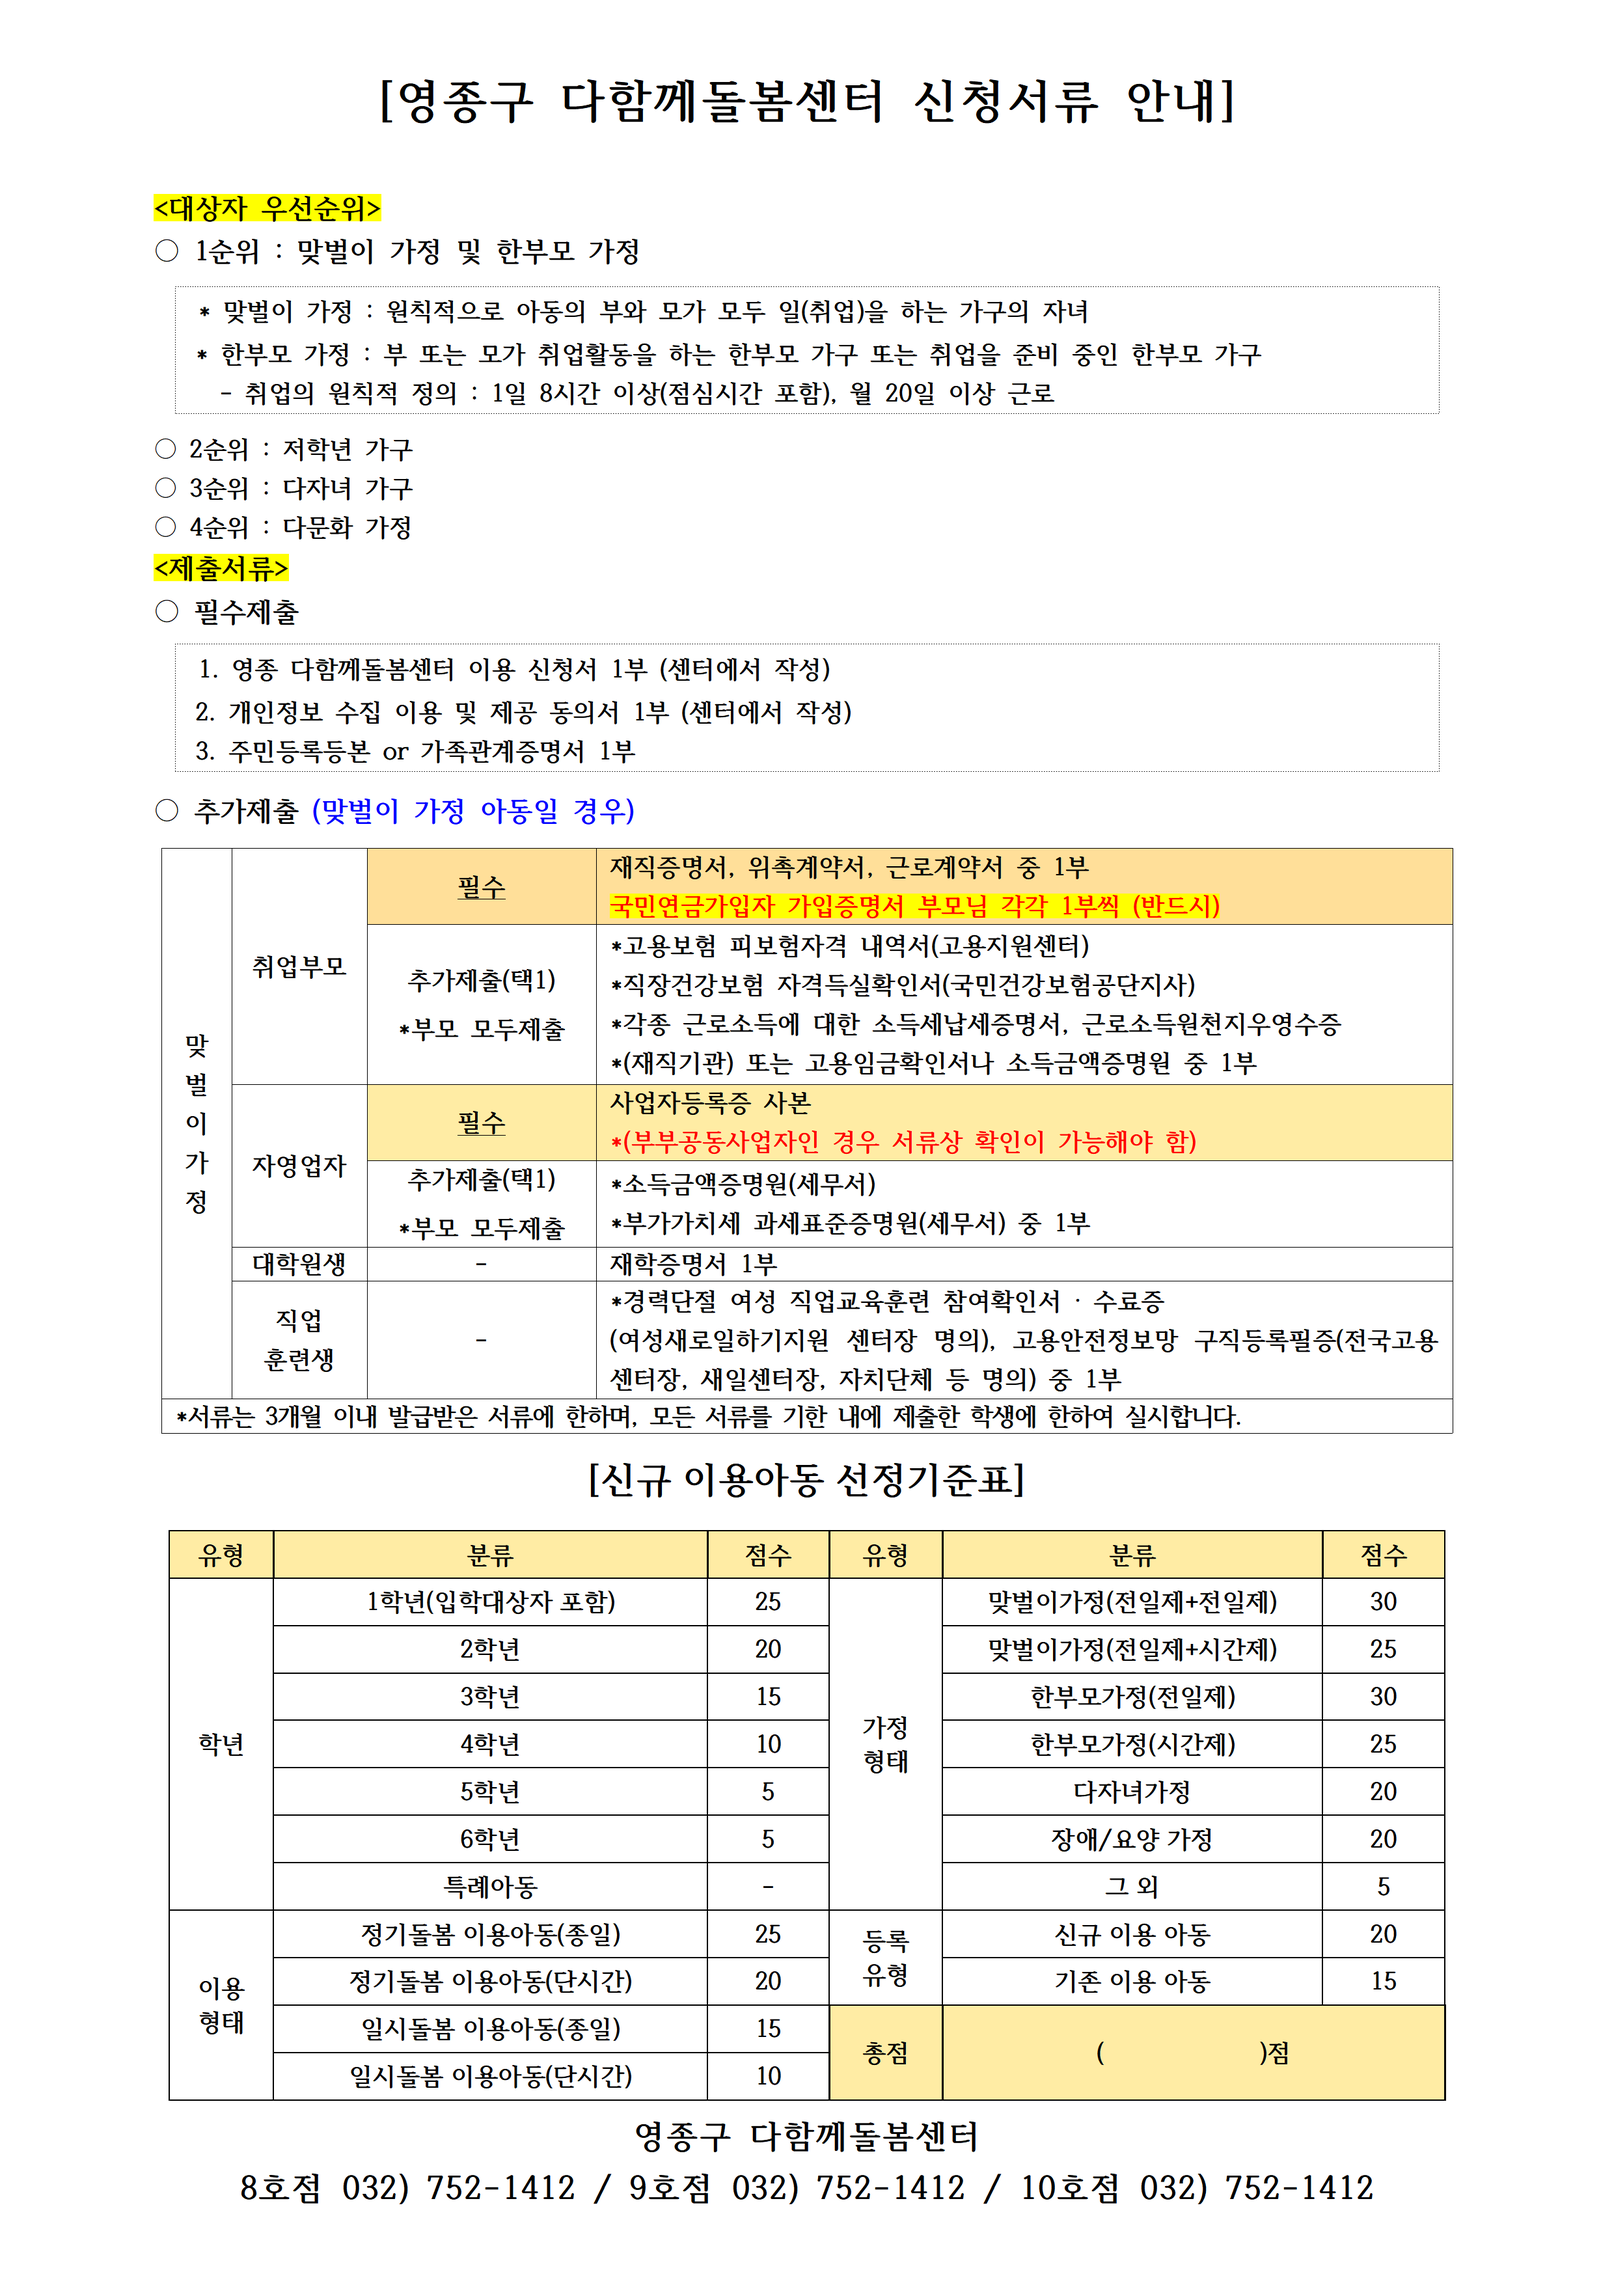
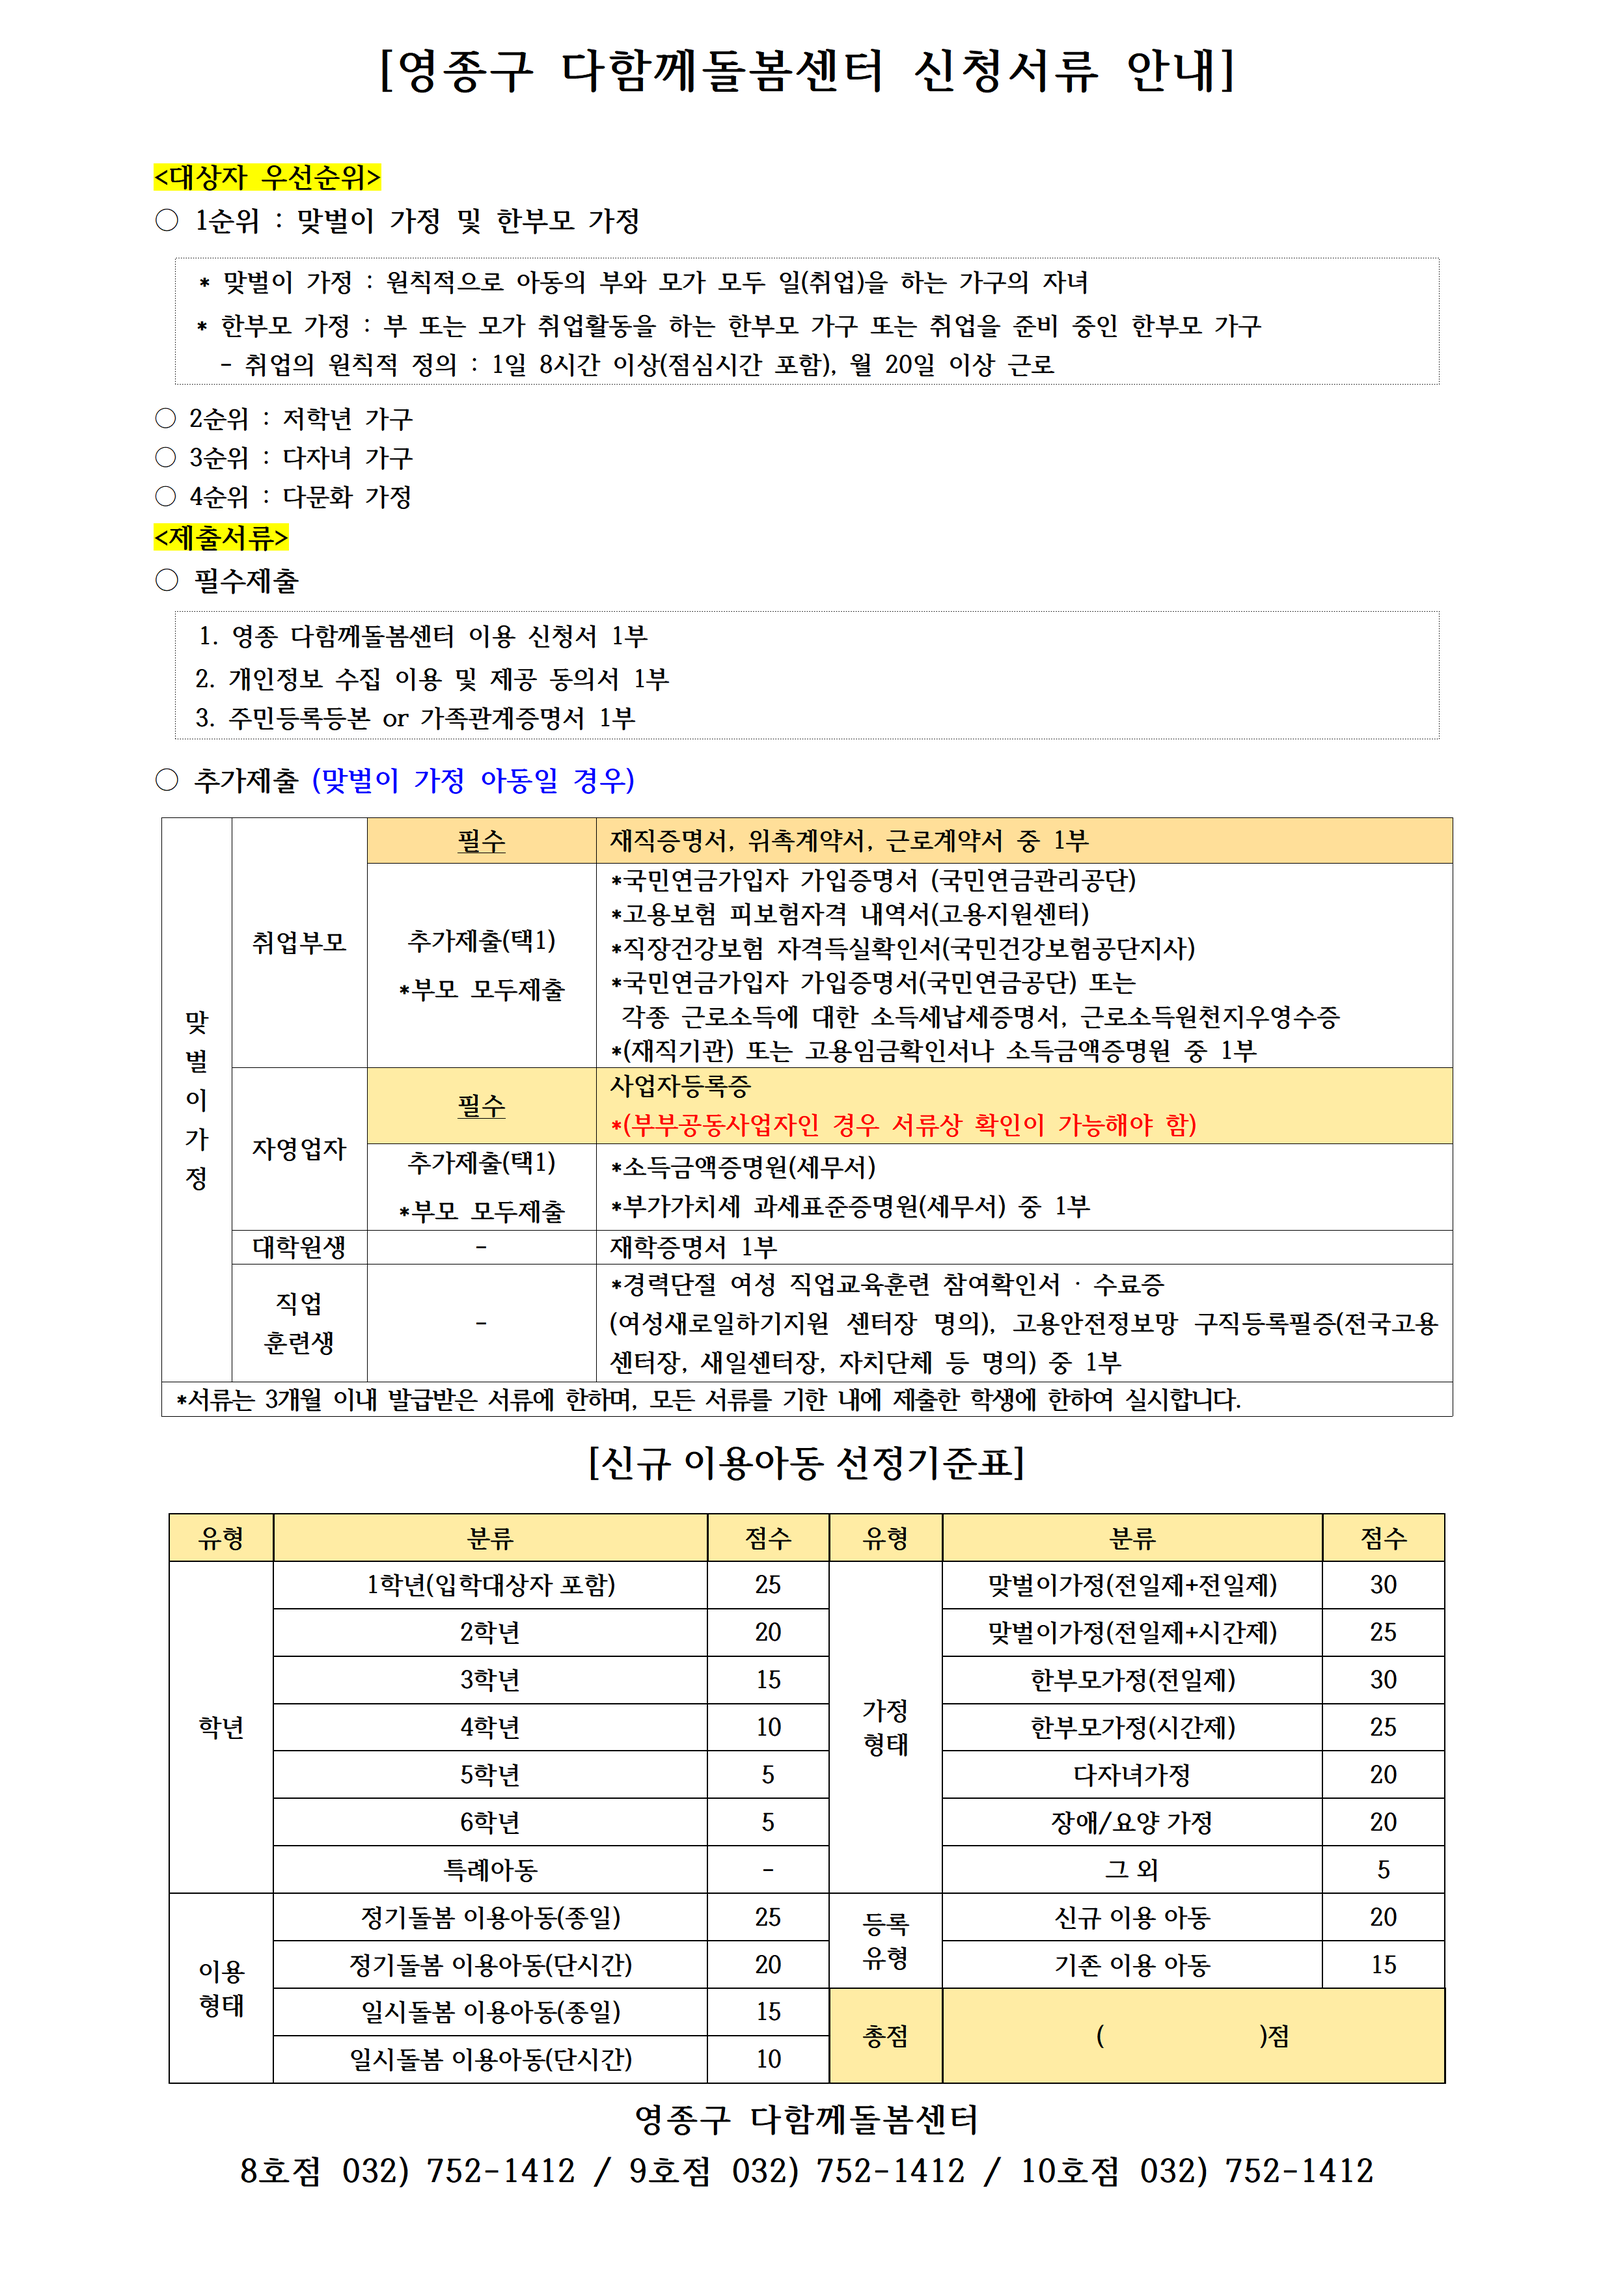
신청서류 안내 그림을 11-24 최종판(신청서류 안내(큐알).hwp)으로 교체, 원본 hwp 보관

diff --git a/build_site.py b/build_site.py
@@ -263,7 +263,7 @@ LAND_CSS += """
 
 # ---- documents shown as pictures like the poster (user 2026-11-20: 한글 파일 대신 이미지로) ----
 # flyers/guide.png = page copy (1240 px); flyers/zoom/guide.png = 300 dpi render by Hangul COM (CreatePageImage) of
-# 영종다함께돌봄센터 신청서류 안내(큐알).hwpx (user's desktop 2026-11-20). That one page holds 신청서류 안내 and the
+# 영종다함께돌봄센터 신청서류 안내(큐알).hwp (user's desktop 2026-11-24, final; source kept in flyers/원본/). That one page holds 신청서류 안내 and the
 # 선정기준표, so it replaced the two pictures (score.png, documents.png) used on 2026-11-20 morning.
 DOC_IMAGES = [
     ('guide.png', '신청서류 안내', '제출서류 · 선정기준표',
